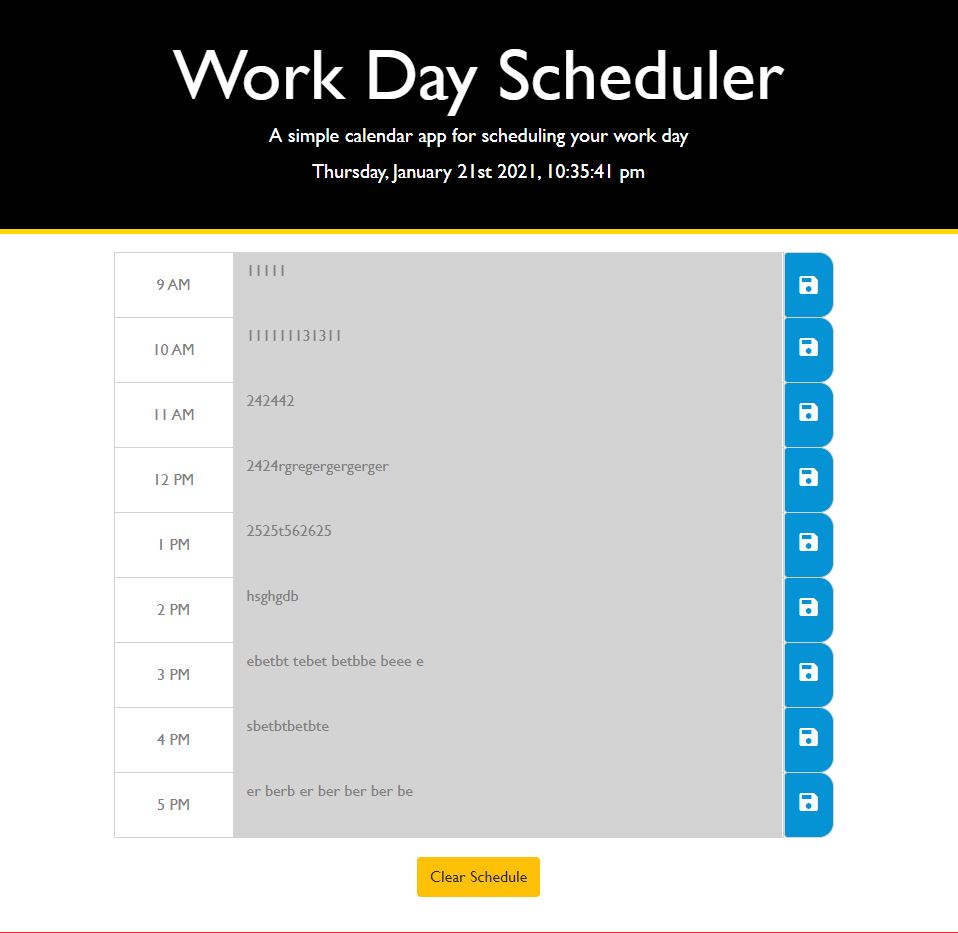
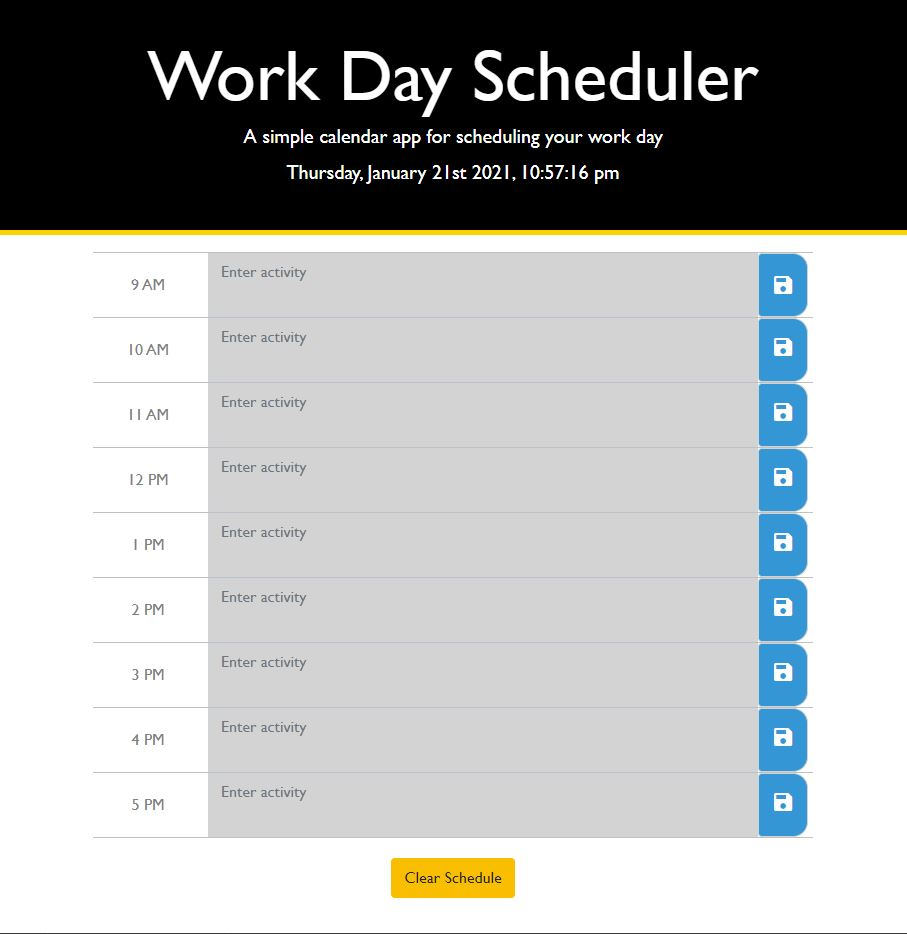
Adjusted borders around time slots to separate rows

diff --git a/05-Third-Party-APIs/Develop/script.js b/05-Third-Party-APIs/Develop/script.js
@@ -68,14 +68,6 @@ var schedule = [
     }
 ];
 
-// Clear the time slots of all activity slots and local storage
-function clearSchedule() {
-
-    localStorage.clear();
-    $('.activity').empty();
-
-}
-
 // display the time properties from the schedule object in the corresponding elements
 function displayTimes() {
 
@@ -205,9 +197,10 @@ function renderSchedule() {
 // clear the schedule when clicked
 $('#clear').on('click', function () {
 
-    // call the function to clear storage and the activity slots
-    clearSchedule();
-
+    // Clear the time slots of all activity slots and local storage
+    $('.activity').empty();
+    localStorage.clear();
+    
 });
 
 // save the activity when the save button is clicked

diff --git a/05-Third-Party-APIs/Develop/style.css b/05-Third-Party-APIs/Develop/style.css
@@ -34,7 +34,7 @@ textarea{
   white-space: pre-wrap;
   margin: -15px;
   height: 80px;
-  border-top: 1px solid white;;
+  border-top: 1px solid silver;
 }
 
 .hour {
@@ -58,7 +58,7 @@ textarea{
 }
 
 .save {
-  border-left: 1px solid black;
+  
   border-top-right-radius: 15px;
   border-bottom-right-radius: 15px;
   background-color: #0693d5;
@@ -72,7 +72,7 @@ textarea{
 
 
 .time {
-  border: 1px solid #d3d3d3;
+  
   text-align: center;
   width: 100%;
   height: 100%;
@@ -81,7 +81,6 @@ textarea{
 }
 
 .activity {
-  border: 1px solid #d3d3d3;
   color: grey;
   
 }

diff --git a/README.md b/README.md
@@ -29,6 +29,6 @@ The following animation demonstrates the application functionality:
 ![day planner demo](05-Third-Party-APIs/Assets/05-third-party-apis-homework-demo.gif)
 
 ## The Deliverable
-![work day planner] (05-Third-Party-APIs/Assets/kk_workday_screenshot.JPG)
+<img src="05-Third-Party-APIs/Assets/kk_workday_screenshot.JPG" alt="my workday page" width="480"/>
 
 [Work Day Scheduler] (https://kdkleven.github.io/uofm-bootcamp-homework-05/05-Third-Party-APIs/Develop/index.html)
